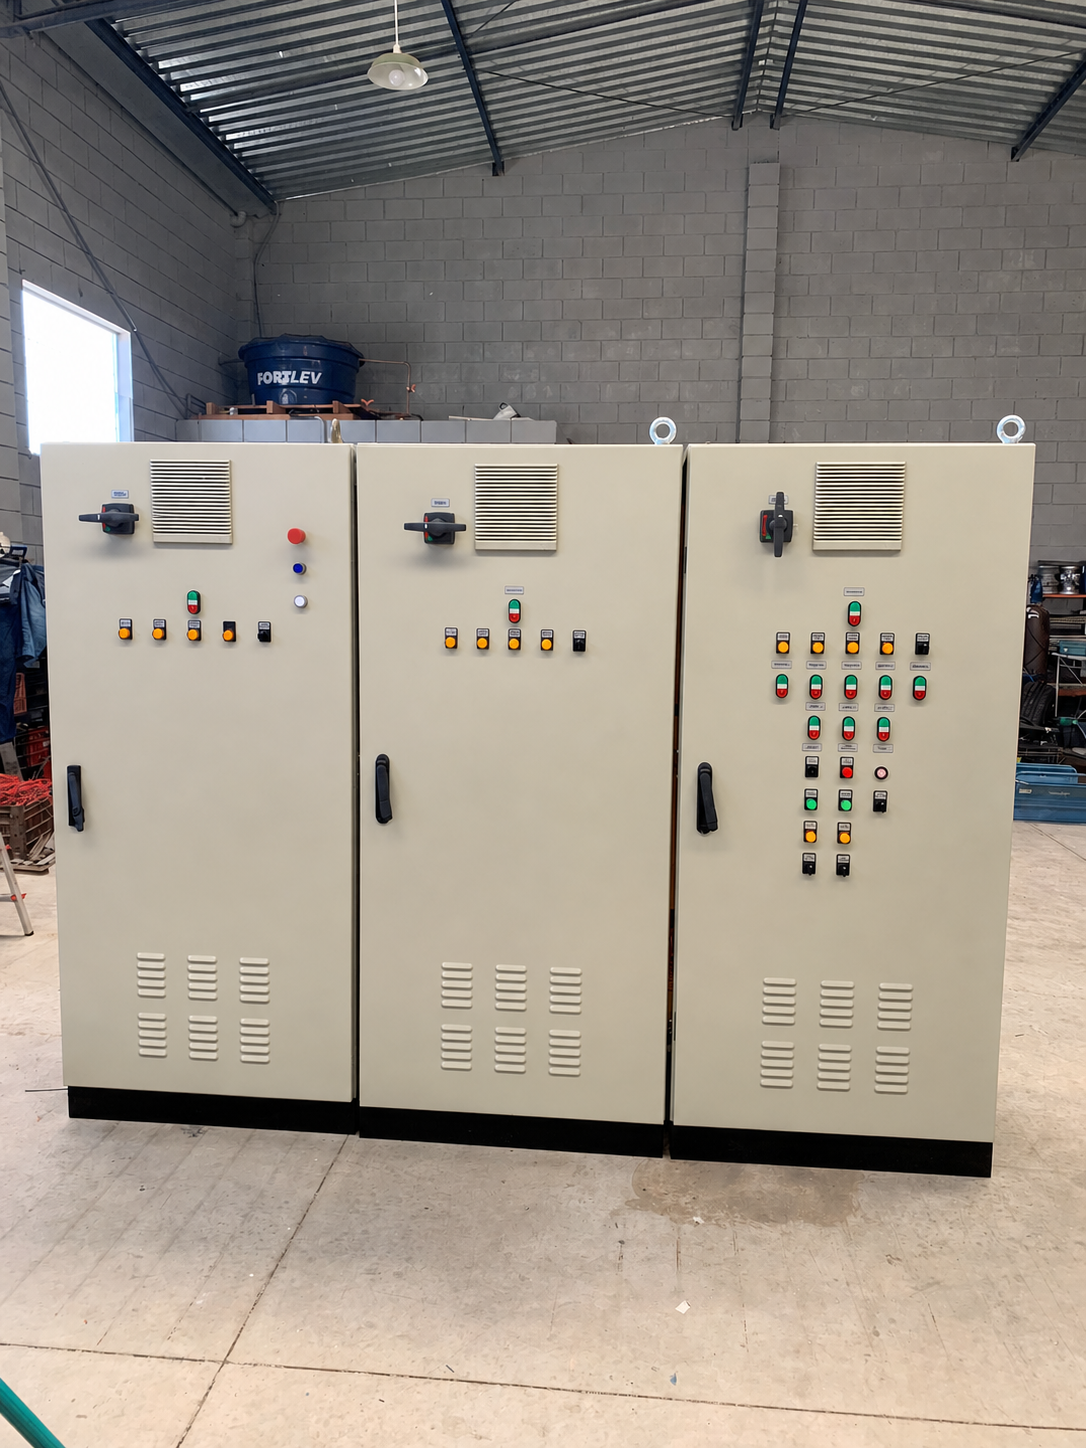
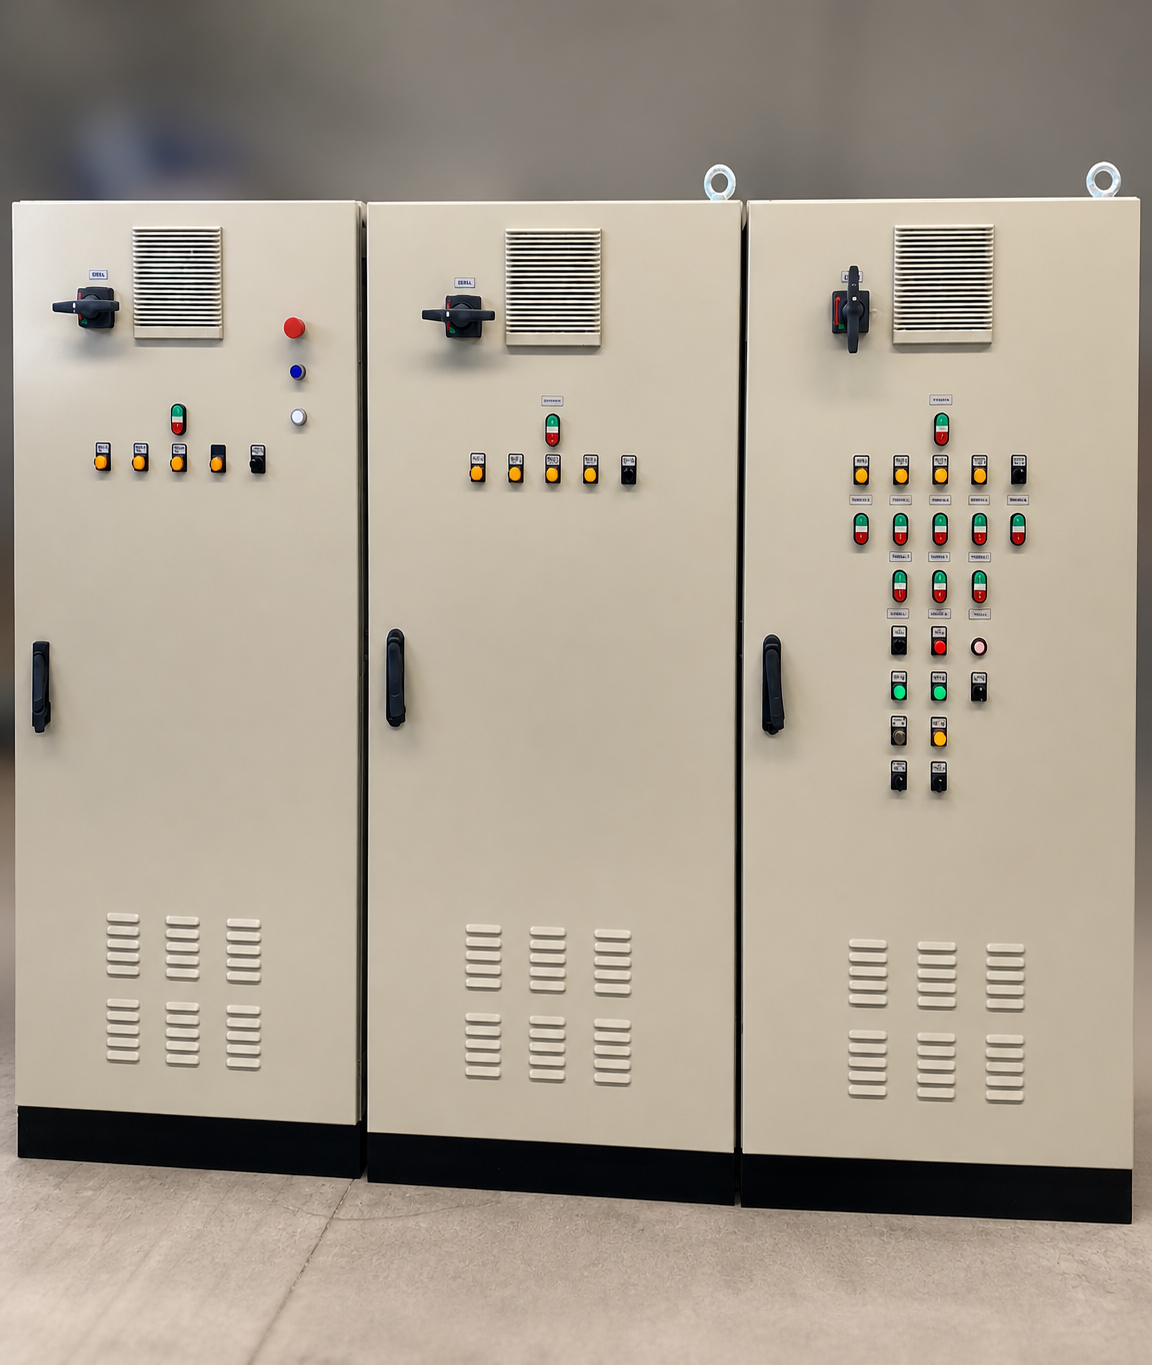
att03

diff --git a/index.html b/index.html
@@ -419,6 +419,14 @@
           <div class="flex h-10 w-10 shrink-0 items-center justify-center rounded-lg bg-primary/10 text-primary"><i data-lucide="droplets" class="h-5 w-5"></i></div>
           <span class="font-medium">Sistemas de Bombas</span>
         </div>
+        <div class="flex items-center gap-3 rounded-xl border border-border bg-gradient-card p-5 transition-smooth hover:border-primary/50">
+          <div class="flex h-10 w-10 shrink-0 items-center justify-center rounded-lg bg-primary/10 text-primary"><i data-lucide="zap" class="h-5 w-5"></i></div>
+          <span class="font-medium">Partidas com inversores de frequência, soft-starter</span>
+        </div>
+        <div class="flex items-center gap-3 rounded-xl border border-border bg-gradient-card p-5 transition-smooth hover:border-primary/50">
+          <div class="flex h-10 w-10 shrink-0 items-center justify-center rounded-lg bg-primary/10 text-primary"><i data-lucide="power" class="h-5 w-5"></i></div>
+          <span class="font-medium">Partidas diretas e Estrela triângulo</span>
+        </div>
       </div>
     </section>
 
@@ -505,28 +513,10 @@
           </div>
           <div class="group overflow-hidden rounded-2xl border border-border bg-background transition-smooth hover:border-primary/50 hover:shadow-red">
             <div class="aspect-[4/5] overflow-hidden bg-muted">
-              <img src="assets/img03.jpeg" alt="Série de Painéis Inox 440V para Câmaras Frias" loading="lazy" class="h-full w-full object-cover transition-smooth group-hover:scale-105" />
+              <img src="assets/img03.jpeg" alt="Painel partida cortina de ar NR-12" loading="lazy" class="h-full w-full object-cover transition-smooth group-hover:scale-105" />
             </div>
             <div class="flex items-center justify-between p-5">
-              <div class="font-semibold">Série de Painéis Inox 440V — Câmaras Frias</div>
-              <i data-lucide="check-circle-2" class="h-5 w-5 text-primary"></i>
-            </div>
-          </div>
-          <div class="group overflow-hidden rounded-2xl border border-border bg-background transition-smooth hover:border-primary/50 hover:shadow-red">
-            <div class="aspect-[4/5] overflow-hidden bg-muted">
-              <img src="assets/painel-07.png" alt="Montagem de Painel Elétrico" loading="lazy" class="h-full w-full object-cover transition-smooth group-hover:scale-105" />
-            </div>
-            <div class="flex items-center justify-between p-5">
-              <div class="font-semibold">Montagem de Painel Elétrico</div>
-              <i data-lucide="check-circle-2" class="h-5 w-5 text-primary"></i>
-            </div>
-          </div>
-          <div class="group overflow-hidden rounded-2xl border border-border bg-background transition-smooth hover:border-primary/50 hover:shadow-red">
-            <div class="aspect-[4/5] overflow-hidden bg-muted">
-              <img src="assets/painel-8.jpeg" alt="Painel de Comando Industrial" loading="lazy" class="h-full w-full object-cover transition-smooth group-hover:scale-105" />
-            </div>
-            <div class="flex items-center justify-between p-5">
-              <div class="font-semibold">Painel de Comando Industrial</div>
+              <div class="font-semibold">Painel partida cortina de ar NR-12</div>
               <i data-lucide="check-circle-2" class="h-5 w-5 text-primary"></i>
             </div>
           </div>